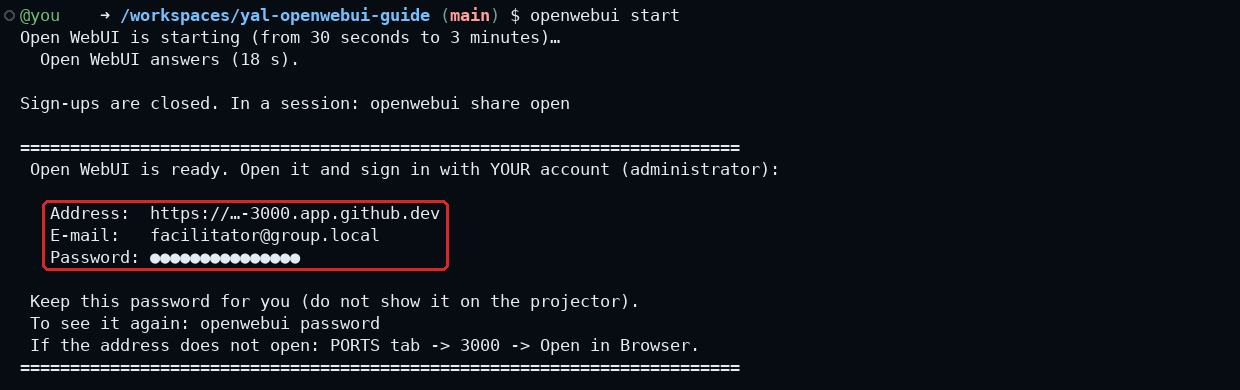
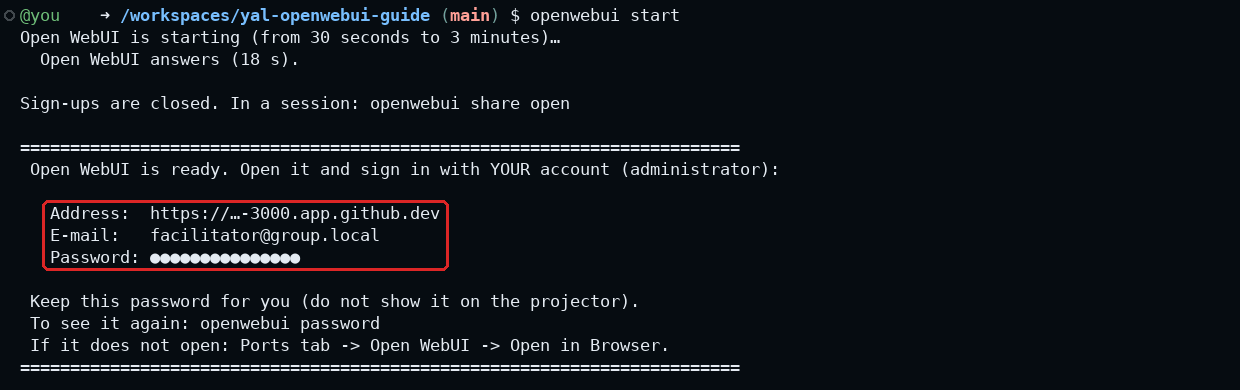
openwebui : « Ports tab (next to Terminal) », « the line Open WebUI (port 3000) », rappel de fin de start raccourci ; captures du terminal du guide Open WebUI refaites avec ce texte (vaut avec l'image 2026.10.36) ; /connect → Google confirmé dans un vrai Codespace

Changed region(s): [[0.0306, 0.8615, 0.5516, 0.9231]]

diff --git a/README.md b/README.md
@@ -210,7 +210,7 @@ next times, about **1 minute**. It ends with a frame like this one:
 
  Keep this password for you (do not show it on the projector).
  To see it again: openwebui password
- If the address does not open: PORTS tab -> 3000 -> Open in Browser.
+ If it does not open: Ports tab -> Open WebUI -> Open in Browser.
 ========================================================================
 ```
 
@@ -652,8 +652,7 @@ The command lets the participants sign up, and gives them access to your active 
 their documents. Then it makes sure the link can be opened from outside.
 
 Open WebUI uses the **port 3000**: think of it as its door to the internet. For now, only you can
-open it. If the command cannot open it by itself, it shows a frame "YOUR TURN". Do what it says
-(in VS Code, the tabs are called **Ports** and **Terminal**):
+open it. If the command cannot open it by itself, it shows a frame "YOUR TURN". Do what it says:
 
 ![The terminal after openwebui share open: sign-ups are open, the list of the chatbots the participants can use, and the frame "YOUR TURN" with the four steps](images/terminal-your-turn.png)
 
